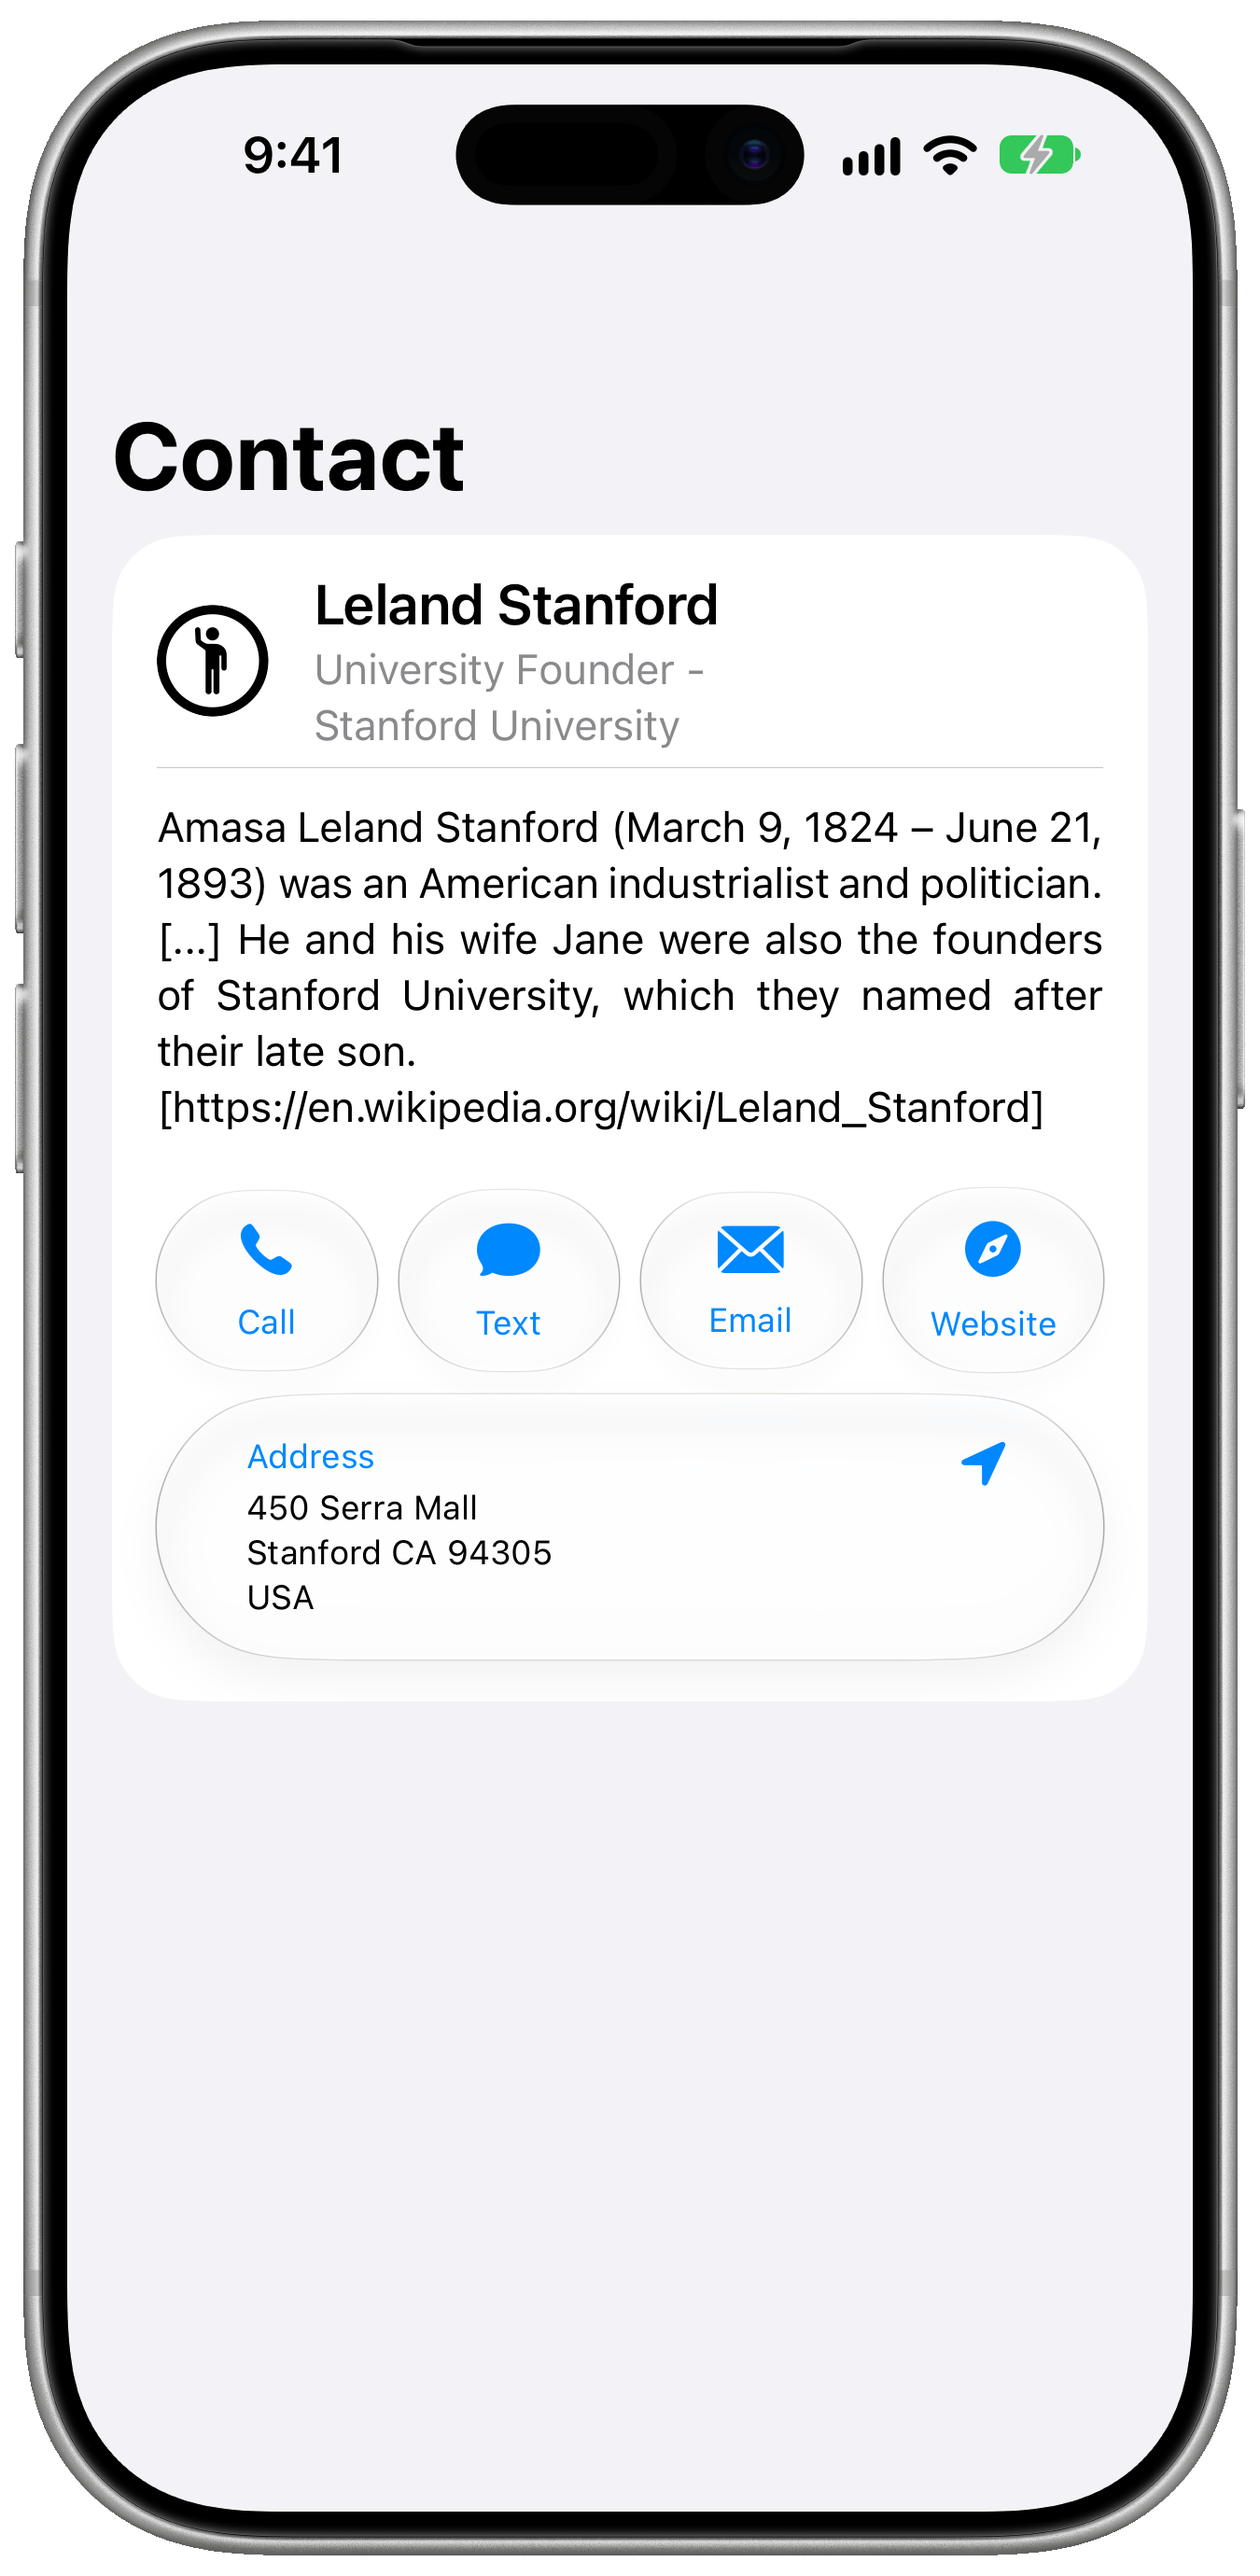
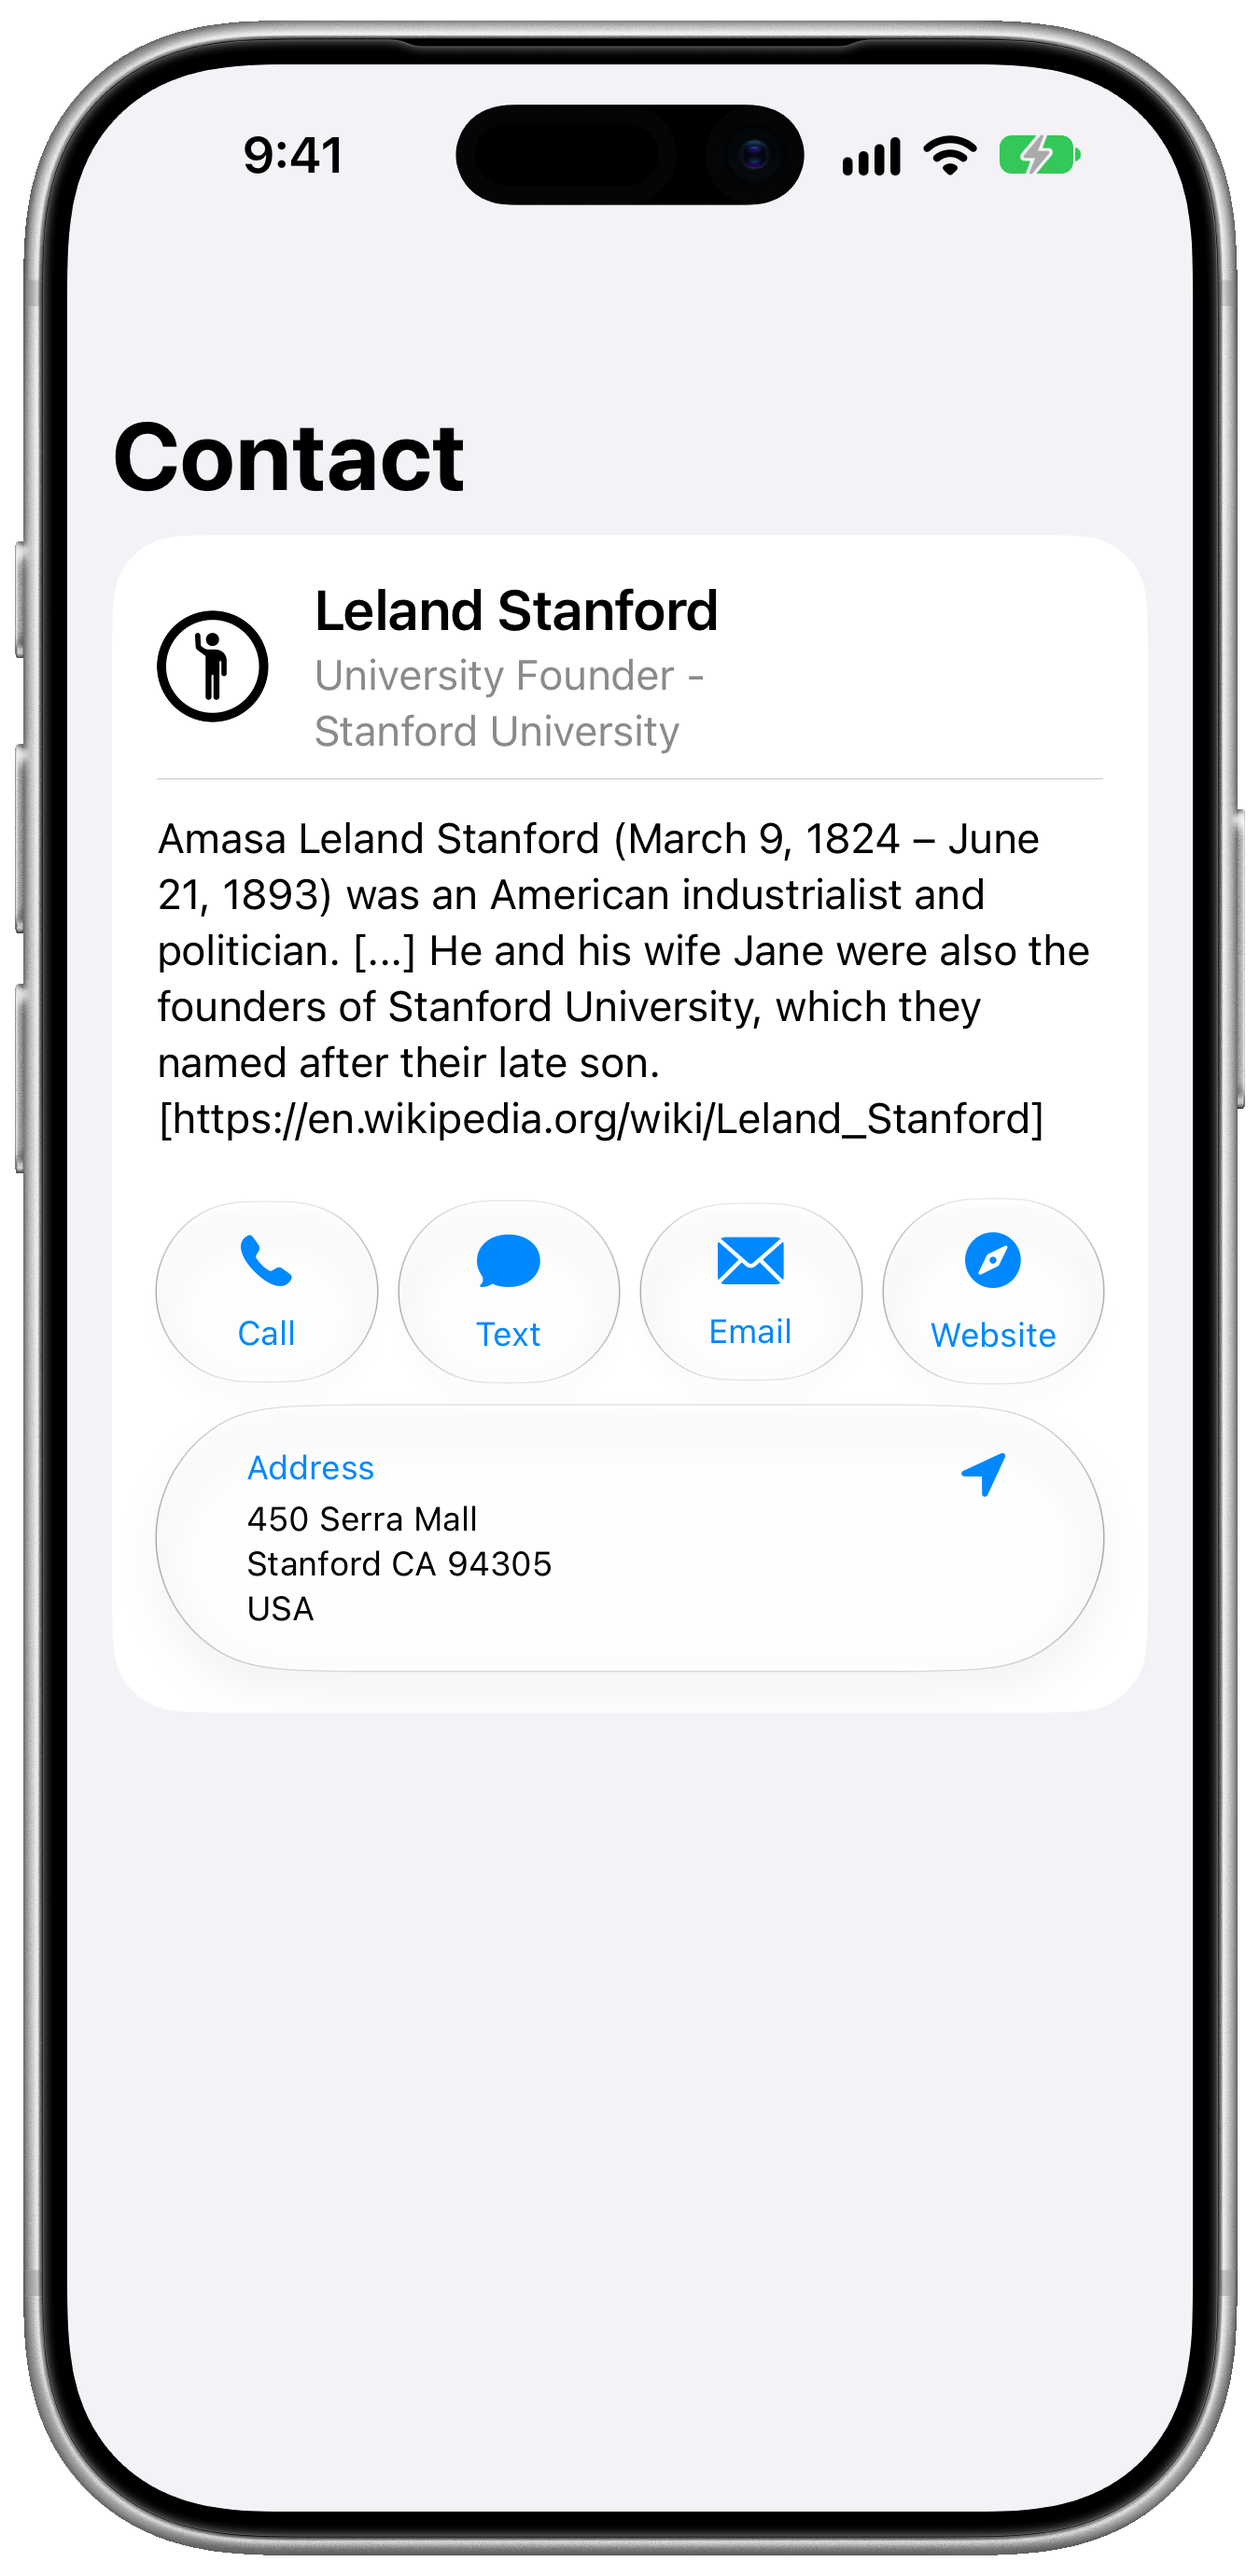
Scale contact header with dynamic type and migrate unit tests to Swift Testing (#40)
Scale the ContactView header with dynamic type, use natural text alignment for contact descriptions, migrate the unit tests to Swift Testing, add a UI test at the largest accessibility text size, and update the README screenshots to match.

diff --git a/Sources/SpeziContact/Contact Views/ContactView.swift b/Sources/SpeziContact/Contact Views/ContactView.swift
@@ -23,6 +23,9 @@ public struct ContactView: View {
 
     @Namespace private var namespace
 
+    @ScaledMetric(relativeTo: .title3) private var profileImageSize: CGFloat = 40
+    @ScaledMetric(relativeTo: .title3) private var headerMinHeight: CGFloat = 60
+
     @State private var contactGridWidth: CGFloat = 300
     @State private var contentElementWidth: CGFloat = 100
 
@@ -76,7 +79,7 @@ public struct ContactView: View {
             header
             Divider()
             if let description = contact.description {
-                Label(verbatim: description, textStyle: .subheadline)
+                Label(verbatim: description, textStyle: .subheadline, textAlignment: .natural)
                     .padding(.vertical, 4)
             }
             HorizontalGeometryReader { _ in
@@ -94,7 +97,7 @@ public struct ContactView: View {
             UserProfileView(name: contact.name) {
                 contact.image
             }
-                .frame(height: 40)
+                .frame(width: profileImageSize, height: profileImageSize)
                 .accessibilityHidden(true)
             Spacer()
                 .frame(width: 16)
@@ -108,7 +111,6 @@ public struct ContactView: View {
                 if contact.title != nil || contact.organization != nil {
                     HStack(spacing: 0) {
                         subtitleText
-                            .lineLimit(1...2)
                             .fixedSize(horizontal: false, vertical: true)
                     }
                     .foregroundColor(Color(.secondaryLabel))
@@ -120,7 +122,7 @@ public struct ContactView: View {
             }
             Spacer()
         }
-            .frame(height: 60)
+            .frame(minHeight: headerMinHeight)
     }
     
     private var contactSection: some View {

diff --git a/Tests/SpeziContactTests/SpeziContactTests.swift b/Tests/SpeziContactTests/SpeziContactTests.swift
@@ -6,12 +6,42 @@
 // SPDX-License-Identifier: MIT
 //
 
+import Contacts
 @testable import SpeziContact
-import XCTest
+import SwiftUI
+import Testing
 
 
-final class SpeziContactTests: XCTestCase {
-    func testSpeziContactTests() throws {
-        XCTAssert(true)
+@MainActor
+@Suite("Contact")
+struct SpeziContactTests {
+    @Test("Contact keeps its information and contact options")
+    func contactInformation() {
+        let contact = Contact(
+            name: PersonNameComponents(givenName: "Leland", familyName: "Stanford"),
+            image: Image(systemName: "figure.wave.circle"),
+            title: "University Founder",
+            description: "Founder of Stanford University.",
+            organization: "Stanford University",
+            address: CNMutablePostalAddress(),
+            contactOptions: [
+                .call("+1 (650) 723-2300"),
+                .text("+1 (650) 723-2300"),
+                .email(addresses: ["contact@stanford.edu"])
+            ]
+        )
+
+        #expect(contact.name.givenName == "Leland")
+        #expect(contact.title == "University Founder")
+        #expect(contact.organization == "Stanford University")
+        #expect(contact.description == "Founder of Stanford University.")
+        #expect(contact.address != nil)
+        #expect(contact.contactOptions.map(\.title) == ["Call", "Text", "Email"])
+    }
+
+    @Test("Each contact option has a unique identifier")
+    func uniqueContactOptionIdentifiers() {
+        let options: [ContactOption] = [.call("1"), .call("1"), .text("1")]
+        #expect(Set(options.map(\.id)).count == options.count)
     }
 }

diff --git a/Tests/UITests/TestAppUITests/SpeziContactsTests.swift b/Tests/UITests/TestAppUITests/SpeziContactsTests.swift
@@ -58,4 +58,24 @@ final class ContactsTests: XCTestCase {
         let maps = XCUIApplication(bundleIdentifier: "com.apple.Maps")
         XCTAssert(maps.wait(for: .runningForeground, timeout: 2))
     }
+
+    @MainActor
+    func testContactsViewWithLargestTextSize() throws {
+        let app = XCUIApplication()
+        app.launchArguments += ["-UIPreferredContentSizeCategoryName", "UICTContentSizeCategoryAccessibilityXXXL"]
+        app.launch()
+
+        XCTAssertTrue(app.wait(for: .runningForeground, timeout: 2.0))
+
+        let name = app.staticTexts["Contact: Jane Stanford"]
+        let subtitle = app.staticTexts["A Title at Stanford University"]
+        let description = app.staticTexts.element(matching: NSPredicate(format: "label CONTAINS[c] %@", "This is a description"))
+        XCTAssertTrue(name.waitForExistence(timeout: 2.0))
+        XCTAssertTrue(subtitle.exists)
+        XCTAssertTrue(description.exists)
+
+        // The header must grow with the text instead of overlapping the description below it.
+        XCTAssertLessThanOrEqual(name.frame.maxY, subtitle.frame.minY + 1)
+        XCTAssertLessThanOrEqual(subtitle.frame.maxY, description.frame.minY + 1)
+    }
 }
